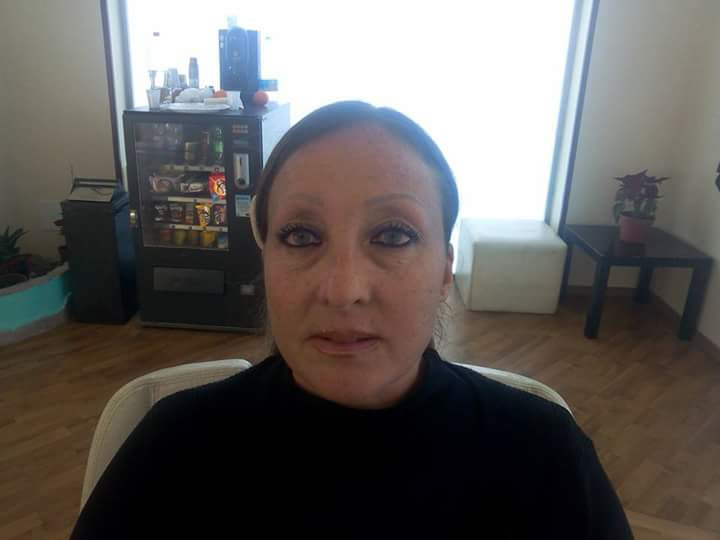
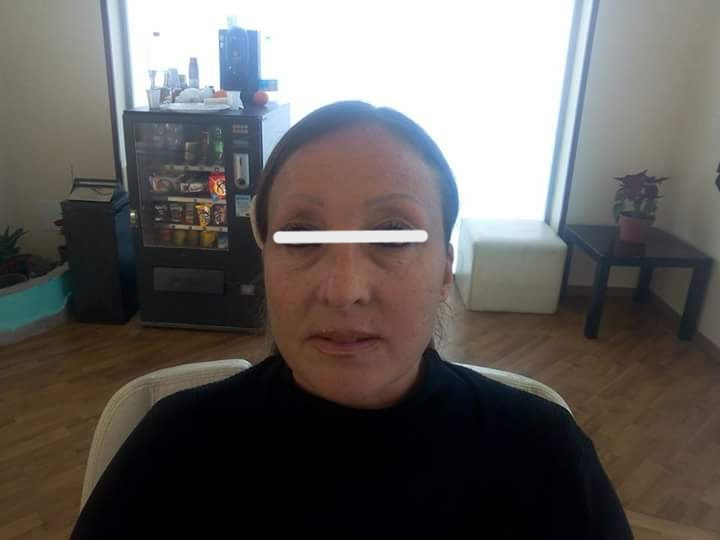
Aggiunta privacy policy, meta tags per la SEO, pulsante float di whatsapp

Changed region(s): [[0.3667, 0.4148, 0.6111, 0.4741]]

diff --git a/pages/PrivacyPolicy.tsx b/pages/PrivacyPolicy.tsx
@@ -1,0 +1,64 @@
+import { ArrowLeft } from 'lucide-react'
+import { Link } from 'react-router-dom'
+
+export default function PrivacyPolicy() {
+  return (
+    <div className="min-h-screen bg-white py-20">
+      <div className="container mx-auto px-4 max-w-3xl">
+        <Link to="/" className="inline-flex items-center gap-2 text-amber-600 hover:text-amber-700 mb-8 font-medium">
+          <ArrowLeft className="w-4 h-4" />
+          Torna alla Home
+        </Link>
+
+        <h1 className="text-4xl font-serif text-gray-800 mb-8">Privacy Policy</h1>
+        
+        <div className="prose prose-amber max-w-none text-gray-600">
+          <p className="text-lg mb-6">
+            Ultimo aggiornamento: {new Date().toLocaleDateString('it-IT')}
+          </p>
+
+          <h2 className="text-2xl font-semibold text-gray-800 mt-8 mb-4">1. Titolare del Trattamento</h2>
+          <p>
+            Centro Estetico di Sonia Forestieri<br />
+            Via Titina De Filippo 36, 90135 Palermo<br />
+            Email: soniaforestieri@gmail.com<br />
+            Telefono: +39 392 228 1816
+          </p>
+
+          <h2 className="text-2xl font-semibold text-gray-800 mt-8 mb-4">2. Tipologia di Dati Raccolti</h2>
+          <p>
+            Questo sito web è una vetrina informativa e <strong>non raccoglie direttamente dati personali</strong> tramite moduli di contatto o registrazione utenti.
+          </p>
+          <p>
+            I contatti avvengono esclusivamente tramite:
+          </p>
+          <ul className="list-disc pl-6 mb-4">
+            <li>Click diretti su link email (mailto)</li>
+            <li>Click diretti su link telefonici (tel)</li>
+            <li>Click diretti su link WhatsApp</li>
+          </ul>
+          <p>
+            In questi casi, il trattamento dei dati (es. il tuo numero di telefono o indirizzo email) avviene sui rispettivi client di posta o app di messaggistica, al di fuori di questo sito web.
+          </p>
+
+          <h2 className="text-2xl font-semibold text-gray-800 mt-8 mb-4">3. Cookie e Contenuti Incorporati</h2>
+          <p>
+            Questo sito utilizza cookie tecnici strettamente necessari per il funzionamento.
+          </p>
+          <p>
+            <strong>Video YouTube, Instagram e Facebook:</strong><br />
+            Alcune pagine di questo sito possono includere contenuti incorporati (es. video). I contenuti incorporati da altri siti web si comportano esattamente come se il visitatore avesse visitato l'altro sito web.
+          </p>
+          <p>
+            Questi siti web possono raccogliere dati su di te, usare cookie, integrare ulteriori tracciamenti di terze parti e monitorare l'interazione con essi, incluso il tracciamento della tua interazione con il contenuto incorporato se hai un account e sei connesso a quei siti web.
+          </p>
+
+          <h2 className="text-2xl font-semibold text-gray-800 mt-8 mb-4">4. Diritti dell'Utente</h2>
+          <p>
+            In conformità con il GDPR, hai il diritto di chiedere al titolare del trattamento l'accesso ai tuoi dati personali, la rettifica, la cancellazione degli stessi o la limitazione del trattamento che ti riguarda.
+          </p>
+        </div>
+      </div>
+    </div>
+  )
+}

diff --git a/pages/Services.tsx b/pages/Services.tsx
@@ -293,41 +293,6 @@ export default function Services() {
           </div>
         </div>
       </section>
-
-      {/* Features Section */}
-      <section className="bg-amber-50/50 py-20">
-        <div className="container mx-auto px-4">
-          <div className="grid grid-cols-1 md:grid-cols-3 gap-8">
-            <div className="text-center">
-              <div className="bg-white rounded-full w-16 h-16 flex items-center justify-center mx-auto mb-4 shadow-lg">
-                <Award className="h-8 w-8 text-amber-600" />
-              </div>
-              <h3 className="font-semibold text-gray-800 mb-2">Esperienza Certificata</h3>
-              <p className="text-gray-600">
-                Oltre 20 anni di esperienza nel settore dell'estetica professionale
-              </p>
-            </div>
-            <div className="text-center">
-              <div className="bg-white rounded-full w-16 h-16 flex items-center justify-center mx-auto mb-4 shadow-lg">
-                <Sparkles className="h-8 w-8 text-amber-600" />
-              </div>
-              <h3 className="font-semibold text-gray-800 mb-2">Tecnologie Moderne</h3>
-              <p className="text-gray-600">
-                Utilizzo di prodotti di qualità e tecniche all'avanguardia
-              </p>
-            </div>
-            <div className="text-center">
-              <div className="bg-white rounded-full w-16 h-16 flex items-center justify-center mx-auto mb-4 shadow-lg">
-                <Users className="h-8 w-8 text-amber-600" />
-              </div>
-              <h3 className="font-semibold text-gray-800 mb-2">Attenzione Personalizzata</h3>
-              <p className="text-gray-600">
-                Ogni trattamento è studiato su misura in base alle esigenze individuali
-              </p>
-            </div>
-          </div>
-        </div>
-      </section>
     </div>
   )
 }

diff --git a/components/ReviewsSection.tsx b/components/ReviewsSection.tsx
@@ -2,37 +2,37 @@ import { Star, Quote } from 'lucide-react'
 
 const reviews = [
   {
-    name: "Maria Rossi",
+    name: "Maria R.",
     rating: 5,
     text: "Un'esperienza fantastica! Lo staff è molto professionale e l'ambiente è rilassante. Il trattamento anti-age ha dato risultati incredibili. Tornerò sicuramente!",
     treatment: "Trattamento Anti-Age"
   },
   {
-    name: "Elena Bianchi",
+    name: "Elena B.",
     rating: 5,
     text: "Sono cliente da anni e non ho mai trovato un centro estetico migliore. La qualità dei servizi è eccellente e le ragazze sono sempre disponibili e gentili.",
     treatment: "Pulizia del Viso"
   },
   {
-    name: "Giulia Ferrari",
+    name: "Giulia F.",
     rating: 5,
     text: "Il massaggio rilassante è stato meraviglioso! Finalmente ho trovato un posto dove potermi rilassare completamente. Ambiente pulito e accogliente.",
     treatment: "Massaggio Rilassante"
   },
   {
-    name: "Francesca Romano",
+    name: "Francesca P.",
     rating: 5,
     text: "Professionalità e cortesia al top! Il trattamento anticellulite sta dando ottimi risultati. Consiglio vivamente questo centro estetico.",
     treatment: "Trattamento Anticellulite"
   },
   {
-    name: "Anna Verde",
+    name: "Anna V.",
     rating: 5,
     text: "Atmosfera magica e trattamenti di alta qualità. La radiofrequenza ha superato le mie aspettative. Prenotazione facile e prezzi onesti.",
     treatment: "Radiofrequenza"
   },
   {
-    name: "Chiara Blu",
+    name: "Chiara B.",
     rating: 5,
     text: "Un vero e proprio angolo di paradiso! Le estetiste sono competenti e l'ambiente è curato nei minimi dettagli. Lo consiglio a tutte le mie amiche.",
     treatment: "Idratazione Viso"

diff --git a/components/WhatsAppFloat.tsx b/components/WhatsAppFloat.tsx
@@ -1,0 +1,22 @@
+import { MessageCircle } from 'lucide-react'
+
+export default function WhatsAppFloat() {
+  const phoneNumber = "393922281816" // Numero preso da ContactSection
+  const message = "Ciao! Vorrei prenotare un appuntamento."
+  const whatsappUrl = `https://wa.me/${phoneNumber}?text=${encodeURIComponent(message)}`
+
+  return (
+    <a
+      href={whatsappUrl}
+      target="_blank"
+      rel="noopener noreferrer"
+      className="fixed bottom-6 right-6 z-50 bg-[#25D366] text-white p-4 rounded-full shadow-lg hover:bg-[#128C7E] transition-all hover:scale-110 flex items-center justify-center group animate-in fade-in zoom-in duration-500"
+      aria-label="Contattaci su WhatsApp"
+    >
+      <MessageCircle className="w-8 h-8" />
+      <span className="absolute right-full mr-3 bg-white text-gray-800 px-3 py-1 rounded-lg text-sm font-medium shadow-md opacity-0 group-hover:opacity-100 transition-opacity whitespace-nowrap pointer-events-none">
+        Prenota ora
+      </span>
+    </a>
+  )
+}

diff --git a/components/Footer.tsx b/components/Footer.tsx
@@ -1,4 +1,5 @@
 import { Sparkles, Instagram, Facebook, Phone, Mail, MapPin } from 'lucide-react'
+import { Link } from 'react-router-dom'
 
 export default function Footer() {
   return (
@@ -76,7 +77,7 @@ export default function Footer() {
         </div>
 
         <div className="border-t border-amber-200/50 mt-8 pt-8 text-center text-gray-600">
-          <p>
+          <p className="mb-2">
             Sito progettato e sviluppato da{' '}
             <a 
               href="https://wa.me/393500082907" 
@@ -87,6 +88,11 @@ export default function Footer() {
               Alessio Forestieri
             </a>
           </p>
+          <div className="text-sm space-x-2">
+            <Link to="/privacy" className="hover:text-amber-600 transition-colors">Privacy Policy</Link>
+            <span>•</span>
+            <span>&copy; {new Date().getFullYear()} Centro Estetico Sonia Forestieri</span>
+          </div>
         </div>
       </div>
     </footer>

diff --git a/App.tsx b/App.tsx
@@ -4,6 +4,8 @@ import Header from './components/Header'
 import Footer from './components/Footer'
 import Home from './pages/Home'
 import Services from './pages/Services'
+import PrivacyPolicy from './pages/PrivacyPolicy'
+import WhatsAppFloat from './components/WhatsAppFloat'
 
 function ScrollToAnchor() {
   const location = useLocation()
@@ -35,9 +37,11 @@ export default function App() {
             <Routes>
               <Route path="/" element={<Home />} />
               <Route path="/servizi" element={<Services />} />
+              <Route path="/privacy" element={<PrivacyPolicy />} />
             </Routes>
           </main>
           <Footer />
+          <WhatsAppFloat />
         </div>
       </Router>
     </div>

diff --git a/components/NewsSection.tsx b/components/NewsSection.tsx
@@ -31,7 +31,7 @@ const fallbackNewsItems: NewsItem[] = [
     fullDescription: "Siamo entusiasti di introdurre una nuova tecnica di massaggio che combina il calore delle pietre laviche con movimenti fluidi e avvolgenti. Questo trattamento è ideale per sciogliere le tensioni muscolari profonde e favorire un rilassamento totale di corpo e mente. Guarda il video per scoprire come si svolge il trattamento.",
     date: "5 Marzo 2025",
     image: "https://images.unsplash.com/photo-1544161515-4ab6ce6db874?q=80&w=2070&auto=format&fit=crop",
-    videoUrl: "https://www.youtube.com/embed/dQw4w9WgXcQ"
+    videoUrl: "https://www.youtube.com/watch?v=dQw4w9WgXcQ"
   },
   {
     id: 3,

diff --git a/components/HeroSection.tsx b/components/HeroSection.tsx
@@ -26,8 +26,8 @@ export default function HeroSection() {
           </div>
 
           <h1 className="text-5xl md:text-7xl font-serif text-gray-800 mb-6 leading-tight">
-            Bellezza e
-            <span className="text-amber-700 block">Benessere</span>
+            Centro estetico di
+            <span className="text-amber-700 block">Sonia Forestieri</span>
           </h1>
           
           <p className="text-xl md:text-2xl text-gray-600 mb-12 leading-relaxed max-w-2xl mx-auto">

diff --git a/README.md b/README.md
@@ -1,0 +1,70 @@
+# Estetica Landing Page
+
+Questo è il sito web del centro estetico, costruito con React e Vite.
+
+## 🚀 Guida Rapida per lo Sviluppo
+
+### Prerequisiti
+- Node.js e npm installati.
+
+### Avvio
+1. Installa le dipendenze:
+   ```bash
+   npm install
+   ```
+2. Avvia il server locale:
+   ```bash
+   npm run dev
+   ```
+   Il sito sarà visibile su `http://localhost:5173`.
+
+---
+
+## 📝 Guida Gestione Contenuti (DatoCMS)
+
+Questa sezione spiega come aggiornare la sezione **"Novità & Promozioni"** del sito utilizzando DatoCMS.
+
+### 1. Accesso
+Accedi al pannello di amministrazione di DatoCMS con le credenziali fornite.
+
+### 2. Inserire una Nuova Notizia/Promozione
+1. Nel menu a sinistra, clicca su **"News Item"** (o "Novità").
+2. Clicca sul pulsante **"Crea nuovo record"** (o "+").
+
+### 3. Compilare i Campi
+Ecco come compilare correttamente ogni campo:
+
+- **Title (Titolo):** Il titolo breve della news o promozione (es. "Sconto Primavera", "Nuovo Trattamento").
+- **Category (Categoria):** Scegli una delle opzioni:
+  - `promo`: Per offerte e sconti (apparirà con etichetta rossa).
+  - `news`: Per avvisi generali o novità (etichetta arancione).
+  - `video`: Se stai caricando un video (etichetta blu).
+- **Description (Descrizione Breve):** Un riassunto di 1-2 frasi che appare nella card principale.
+- **Full Description (Descrizione Completa):** Il testo lungo che appare quando si apre la notizia. Qui puoi spiegare i dettagli del trattamento o dell'offerta.
+- **Date (Data):** La data di pubblicazione.
+- **Image (Immagine):**
+  - Carica una foto rappresentativa.
+  - **Nota Privacy:** Se usi foto di clienti (es. Prima/Dopo), assicurati di aver censurato gli occhi o reso irriconoscibile il volto se richiesto.
+  - Se non carichi nessuna immagine, il sito ne userà una automatica in base alla categoria.
+
+### 4. Gestione Video (Campo "Video URL")
+Se hai selezionato la categoria `video`, incolla qui il link. Il sito supporta automaticamente:
+
+- **YouTube:**
+  - Link normali: `https://www.youtube.com/watch?v=...`
+  - Link brevi: `https://youtu.be/...`
+  - *Risultato:* Il video si vedrà direttamente nel sito.
+
+- **Instagram:**
+  - Link Reel/Post: `https://www.instagram.com/reel/...`
+  - *Risultato:* Apparirà una copertina con il pulsante "Guarda su Instagram".
+
+- **Facebook:**
+  - Link Video/Reel: `https://www.facebook.com/reel/...`
+  - *Risultato:* Apparirà una copertina con il pulsante "Guarda su Facebook".
+
+### 5. Pubblicazione
+Una volta compilati i campi, clicca su **"Salva"** (o "Save") e poi su **"Pubblica"** (o "Publish") in alto a destra. Le modifiche appariranno sul sito in pochi istanti (potrebbe essere necessario ricaricare la pagina).
+
+
+
